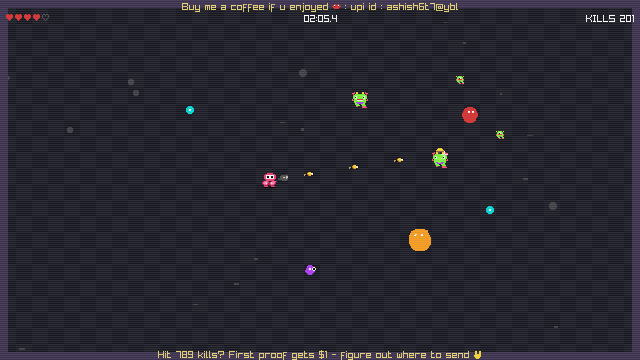
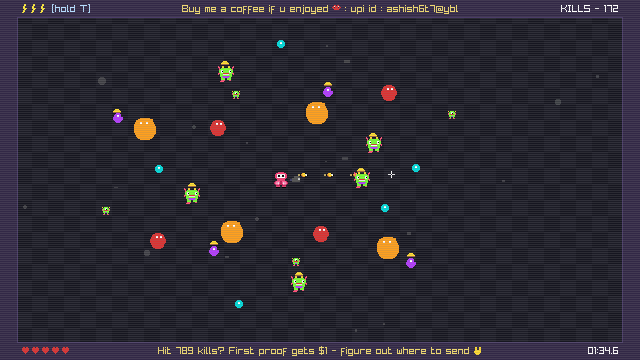
chore: update README and screenshots with new navigation and in-game preview

diff --git a/README.md b/README.md
@@ -37,19 +37,24 @@ No installation required! Just download, extract, and double-click to play:
 
 ## 🍼 New in Version 2.0.0: Choose Your Strength!
 
-At the start of the game, select your difficulty directly from the interactive top dropdown via **mouse click** or **`UP` / `DOWN` / `1,2,3` + `ENTER`**:
+At the start of the game, select your difficulty directly from the 3 visible interactive brick cards via **`UP` / `DOWN` / `W` / `S` / `1,2,3`** or **mouse click**, and start with **`SPACE`** or **`ENTER`**:
 
 | Difficulty Level | Health & Healing | Spawn & Monster Traits | Style |
 |---|:---:|---|---|
-| **`1. kiddo 🍼`** | **6 Hearts**, Heals every **20 kills** | ~55% fewer monster spawns, squishy monsters, slower speed, generous 1.6s invulnerability | Relaxed, fun, and beginner-friendly arcade blasting |
-| **`2. not bad 😁`** *(Default)* | **5 Hearts**, Heals every **30 kills** | ~35% fewer spawns than hard, fair progression, 1.3s invulnerability | Balanced, engaging arcade challenge |
-| **`3. save your peach 🍑💀`** | **5 Hearts**, Heals every **40 kills** | Full relentless original swarm difficulty, faster monsters, 1.0s invulnerability | The brutal original challenge |
+| **`1. Virgin Peach 🍑✨`** | **6 Hearts**, Heals every **20 kills** | Max 25 monsters (4 active attackers, 21 roaming at 70% speed), generous 1.6s invulnerability | Relaxed, fun, and beginner-friendly arcade blasting |
+| **`2. Spank Me Daddy 😈💋`** *(Default)* | **5 Hearts**, Heals every **30 kills** | Max 35 monsters (6 active attackers, 29 roaming at 70% speed), 1.3s invulnerability | Balanced, engaging arcade challenge |
+| **`3. Total Peach Carnage 🍑🩸💀`** | **5 Hearts**, Heals every **40 kills** | Max 45 monsters (10 active attackers, 35 roaming at 70% speed), 1.0s invulnerability | Pure brutal hardcore chaos |
 
 ### Additional Upgrades in v2.0.0:
+* **⚡ Thunder Ability (`[T]` key):** Hold `T` to unleash a devastating golden nuclear shockwave that vaporizes all on-screen monsters into sparks. Tactical single-use latch: only 1 charge consumed per hold (up to 3 max charges).
+* **🔊 New Funny Sound Effects:** Added new funny sound effects!
+* **👾 Staggered Monster Attack System:** Only 4, 6, or 10 monsters actively hunt you down at a time, while remaining monsters roam at 70% speed. When an active attacker falls, the closest roaming monster immediately takes its place!
+* **🎯 Unshadowed Crosshair Pointer:** The in-game cursor is always drawn on top of all UI and menus so nothing can shadow it.
+* **🔄 Restart Briefing:** Restarting with `R` or replaying after death always returns directly to the opening level selection & monster briefing screen.
 * **💥 Sharp Bullet Visuals:** Real aerodynamic cartridge projectiles with supersonic luminous tracer streaks.
 * **⚡ Faster Fire Rate:** 14.5 shots/second for snappier gunplay.
-* **🖥 Larger Window:** 1440x810 default window resolution for a cleaner view on modern screens.
-* **👾 Monster Guide:** Fully preserved right on the start screen below the difficulty selector with live dynamic healing thresholds.
+* **🖥 Larger Window:** 1600x900 default window resolution for a cleaner view on modern screens.
+* **👾 Monster Guide:** Full monster guide preserved right on the start screen alongside the difficulty bricks with live dynamic healing thresholds.
 
 ---
 
@@ -78,11 +83,11 @@ At the start of the game, select your difficulty directly from the interactive t
 | **`W A S D` / Arrow Keys** | Move your shooter (diagonals are speed-normalized) |
 | **Mouse Cursor** | Aim your gun |
 | **Hold Left Mouse Button** | Continuous rapid-fire (unlimited ammo, no reload) |
-| **`UP` / `DOWN` / `W` / `S`** | Navigate difficulty levels on start screen |
-| **`1` / `2` / `3`** | Directly select difficulty level on start screen |
-| **`ENTER`** | Toggle / confirm difficulty dropdown on start screen |
-| **`SPACE`** | Start game / Respawn |
-| **`R`** | Instant restart with a fresh seed |
+| **Hold `T`** | Unleash Thunder nuclear screen-wipe (1 per hold, max 3 charges) |
+| **`UP` / `DOWN` / `W` / `S`** | Navigate difficulty brick cards on start screen |
+| **`1` / `2` / `3`** | Directly select difficulty level |
+| **`SPACE` / `ENTER`** | Start game / confirm selection / Respawn |
+| **`R`** | Instant restart (returns to level select & monster briefing) |
 | **`P`** | Pause (also auto-pauses on window focus loss) |
 | **`M`** | Mute / Unmute audio |
 | **`-` / `=`** | Volume down / Volume up |
